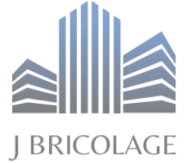
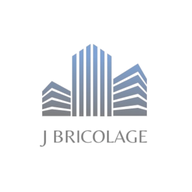
feat: equipa manual + fix PWA splash screen
EQUIPA MANUAL:
- Campo de texto 'Nome manual' no sheet de seleção de equipa
  com fundo âmbar para distinguir dos colaboradores do sistema
- Botão '+ Adicionar' e suporte a tecla Enter
- Verificação de duplicados (case-insensitive)
- Nome aparece com badge '(manual)' nos chips selecionados
- isLegacy: true preservado nos dados — retrocompatível

PWA SPLASH SCREEN:
- Ícones corrigidos para quadrado perfeito (512x512, 192x192, 180x180)
  com padding 10% e fundo branco — evita o corte/círculo estranho
- manifest.json: purpose 'any' e 'maskable' separados (melhor suporte)
  + theme_color branco para combinar com splash
- layout.tsx: title 'JBricolage App' (aparece no splash Android/iOS)
- next.config.mjs: cacheId v3 + NetworkFirst + cleanupOutdatedCaches
- Script inline que força update do SW + limpa caches antigos

diff --git a/components/day-entry-form.tsx b/components/day-entry-form.tsx
@@ -20,7 +20,7 @@ import {
 } from "@/components/ui/sheet"
 import { Tabs, TabsList, TabsTrigger, TabsContent } from "@/components/ui/tabs"
 import {
-  Plus, Minus, X, Trash2, Users, Check, Loader2,
+  Plus, Minus, X, Trash2, Users, UserPlus, Check, Loader2,
   Clock, Hammer, Search, HardHat, MapPin, AlertTriangle, ChevronRight,
 } from "lucide-react"
 import { useWorkTracker } from "@/lib/work-tracker-context"
@@ -202,6 +202,7 @@ export function DayEntryForm({ date, open, onClose }: DayEntryFormProps) {
   const [showTeamDialog, setShowTeamDialog] = useState(false)
   const [tempEquipa, setTempEquipa] = useState<Collaborator[]>([])
   const [teamFilter, setTeamFilter] = useState("")
+  const [manualName, setManualName] = useState("")
   const [showObraPicker, setShowObraPicker] = useState(false)
   const [obraInfoSheet, setObraInfoSheet] = useState<Obra | null>(null)
   const [unlinkServiceId, setUnlinkServiceId] = useState<string | null>(null)
@@ -299,6 +300,16 @@ export function DayEntryForm({ date, open, onClose }: DayEntryFormProps) {
     return allCollaborators.filter(c => c.nome.toLowerCase().includes(f))
   }, [teamFilter, allCollaborators])
 
+  const addManualMember = () => {
+    const name = manualName.trim()
+    if (!name) return
+    const already = tempEquipa.some(m => m.nome.toLowerCase() === name.toLowerCase())
+    if (!already) {
+      setTempEquipa(prev => [...prev, { uid: null, nome: name, isLegacy: true }])
+    }
+    setManualName("")
+  }
+
   const openTeamSelector = () => {
     const current: Collaborator[] = []
     if (activeService?.equipa) {
@@ -309,6 +320,7 @@ export function DayEntryForm({ date, open, onClose }: DayEntryFormProps) {
     }
     setTempEquipa(current)
     setTeamFilter("")
+    setManualName("")
     setShowTeamDialog(true)
   }
 
@@ -808,6 +820,28 @@ export function DayEntryForm({ date, open, onClose }: DayEntryFormProps) {
                 onChange={e => setTeamFilter(e.target.value)}
                 className="pl-10 h-11 rounded-xl bg-muted/40 border-border/40 focus-visible:ring-primary/20 text-sm"
               />
+            </div>
+
+            {/* ── Adicionar membro manual ── */}
+            <div className="flex gap-2">
+              <div className="relative flex-1">
+                <UserPlus className="absolute left-3.5 top-1/2 -translate-y-1/2 h-4 w-4 text-muted-foreground/40 pointer-events-none" />
+                <Input
+                  placeholder="Nome manual (ex: João Silva)..."
+                  value={manualName}
+                  onChange={e => setManualName(e.target.value)}
+                  onKeyDown={e => e.key === "Enter" && addManualMember()}
+                  className="pl-10 h-11 rounded-xl bg-amber-50/60 dark:bg-amber-950/15 border-amber-200/60 dark:border-amber-800/40 focus-visible:ring-amber-400/20 text-sm placeholder:text-muted-foreground/40"
+                />
+              </div>
+              <button
+                type="button"
+                onClick={addManualMember}
+                disabled={!manualName.trim()}
+                className="h-11 px-4 rounded-xl bg-amber-500 hover:bg-amber-600 disabled:opacity-30 disabled:cursor-not-allowed text-white text-sm font-bold transition-all active:scale-95 shrink-0"
+              >
+                + Adicionar
+              </button>
             </div>
 
             {tempEquipa.length > 0 && (

diff --git a/app/layout.tsx b/app/layout.tsx
@@ -20,7 +20,7 @@ export const viewport: Viewport = {
   userScalable: false,
   themeColor: [
     { media: "(prefers-color-scheme: light)", color: "#ffffff" },
-    { media: "(prefers-color-scheme: dark)",  color: "#0f0f14" },
+    { media: "(prefers-color-scheme: dark)",  color: "#ffffff" },
   ],
   viewportFit: "cover",
 }
@@ -32,7 +32,8 @@ export const metadata: Metadata = {
   appleWebApp: {
     capable: true,
     statusBarStyle: "default",
-    title: "JBricolage",
+    title: "JBricolage App",
+    startupImage: ["/apple-icon.png"],
   },
   icons: {
     icon: [
